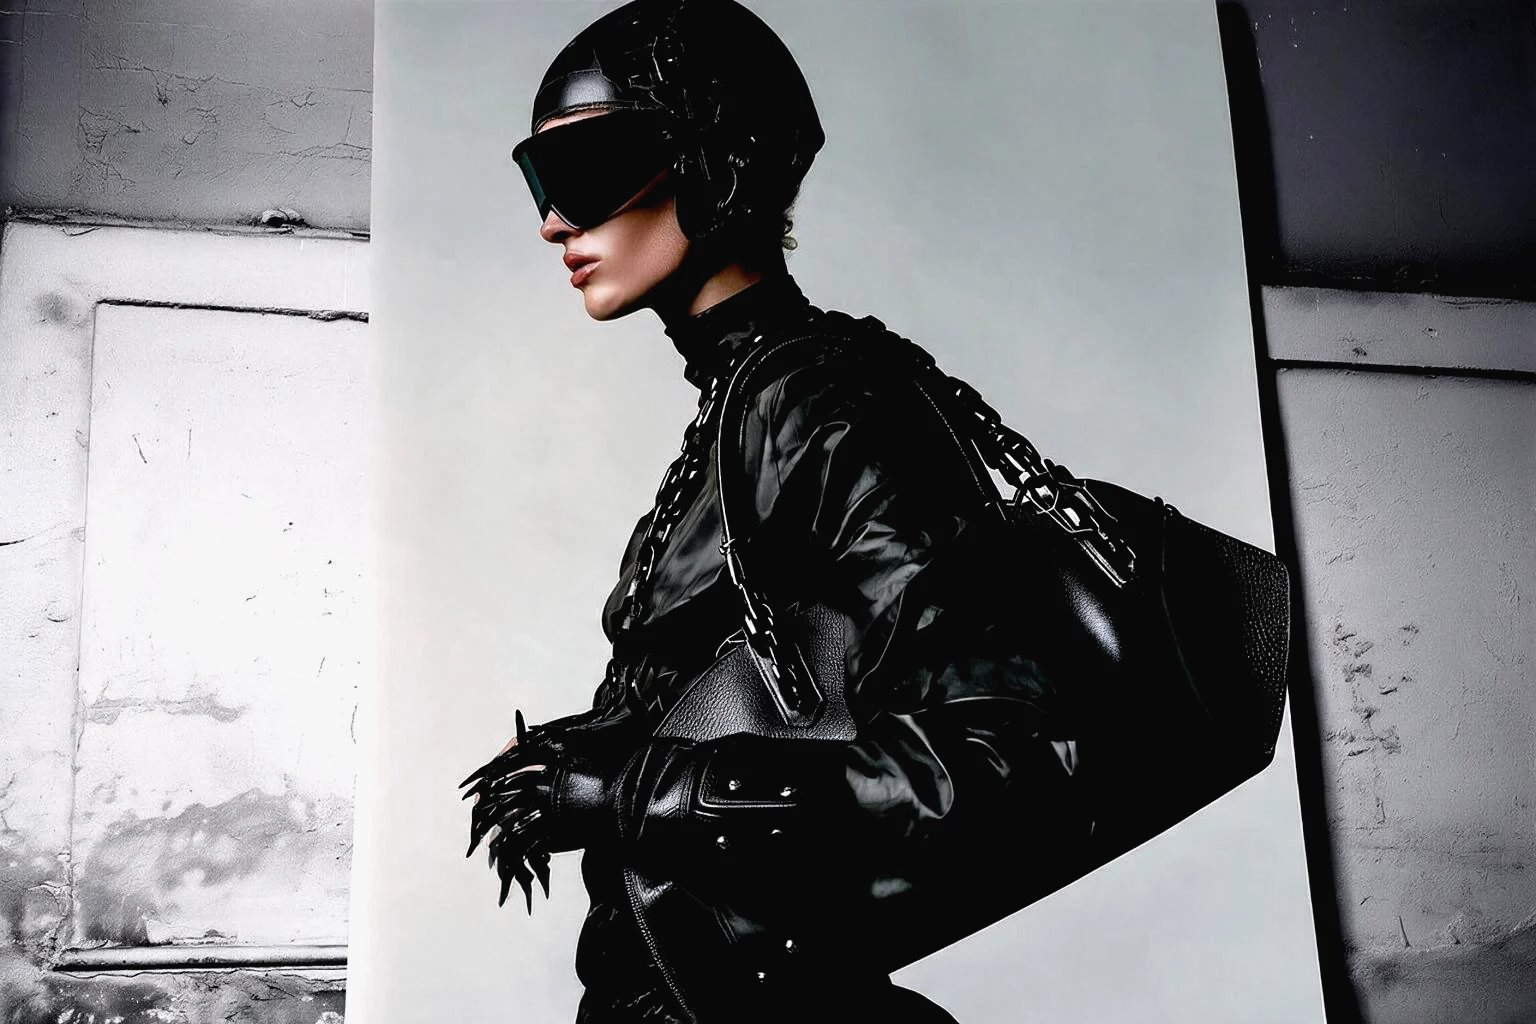
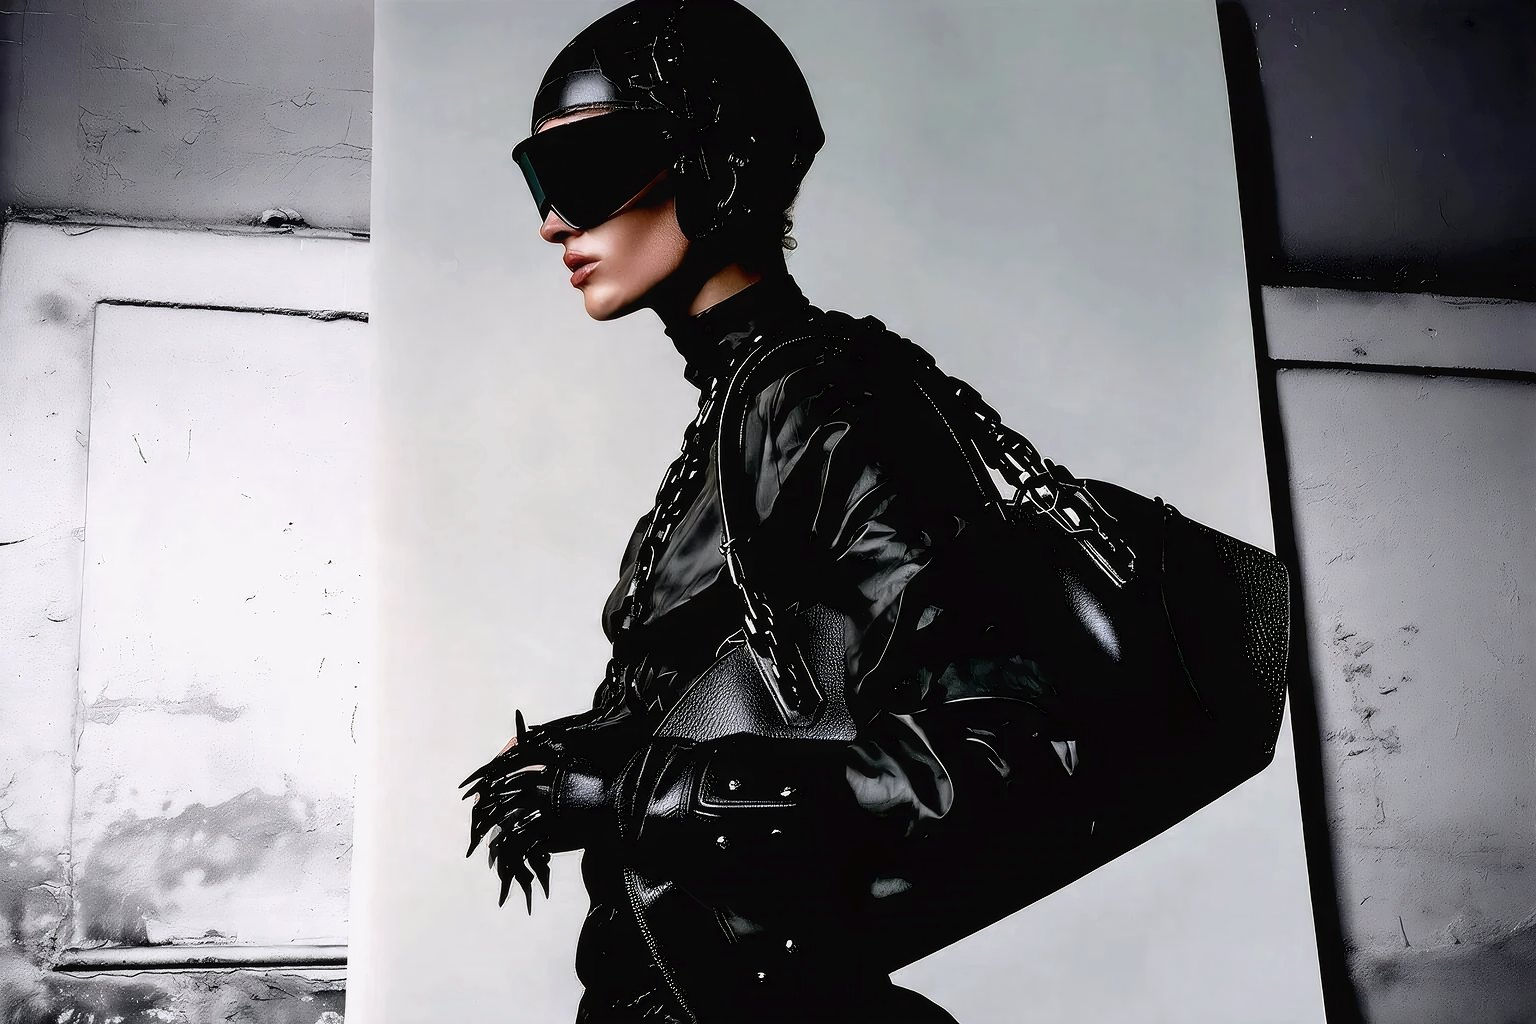
dia 27

diff --git a/roto.html b/roto.html
@@ -75,11 +75,13 @@
 
   /* ===== S1 (hero hook, then ONE pinned stage: young+city fixed, wired+crowd rise in, then lines) ===== */
   #s1{position:relative;padding:0}
-  .s1-hook{height:100vh;height:100svh;margin:0;padding:2.4vw;overflow:hidden;position:relative;z-index:2;color:var(--bone)}
+  .s1-hookwrap{height:200vh;position:relative}
+  .s1-hook{height:100vh;height:100svh;margin:0;padding:2.4vw;overflow:hidden;position:sticky;top:0;z-index:2;color:var(--bone)}
+  .s1-hook .w{font-style:normal;opacity:0}
   .s1-hook .hk{display:block;transform-origin:0 0;will-change:transform}
   .s1-hook .hk span{display:block;width:max-content;white-space:nowrap;font-family:'Archivo',sans-serif;font-weight:900;font-stretch:62.5%;
     text-transform:uppercase;line-height:.8;letter-spacing:-.01em;font-size:100px}
-  .s1-track{position:relative;height:260vh;margin-top:12vh}
+  .s1-track{position:relative;height:260vh;margin-top:0}
   .s1-stage{position:sticky;top:0;height:100vh;overflow:hidden}
   .s1-inner{position:absolute;inset:0;will-change:transform}
   /* fixed pair */
@@ -309,7 +311,7 @@
 
 <!-- ===================== SECTION 1 · LA TENSIÓN ===================== -->
 <section id="s1">
-  <h1 class="s1-hook" id="s1hook" aria-label="An exoskeleton to survive the city"><span class="hk" id="s1hk"><span>An exoskeleton</span><span>to survive</span><span>the city</span></span></h1>
+  <div class="s1-hookwrap" id="s1hookwrap"><h1 class="s1-hook" id="s1hook" aria-label="An exoskeleton to survive the city"><span class="hk" id="s1hk"><span><i class="w">An</i> <i class="w">exoskeleton</i></span><span><i class="w">to</i> <i class="w">survive</i></span><span><i class="w">the</i> <i class="w">city</i></span></span></h1></div>
   <div class="s1-track">
     <div class="s1-stage">
       <div class="s1-inner" id="s1inner">
@@ -593,6 +595,13 @@ function frame(){
   const introF=introEl?smooth(0.1,0.95,1-introEl.getBoundingClientRect().bottom/VH()):1;
   const hookEl=document.getElementById('s1hook');
   if(hookEl) hookEl.style.color=mix(BONE,INK,introF);
+  const hwrap=document.getElementById('s1hookwrap');
+  if(hwrap){
+    const hr=hwrap.getBoundingClientRect();
+    const lead=VH()*.6, hp=clamp((lead-hr.top)/Math.max(1,hwrap.offsetHeight-VH()+lead),0,1);
+    const ws=hwrap.querySelectorAll('.w'), n=ws.length;
+    ws.forEach((w,i)=>{const s=i*(.88/(n-1)),e=s+.12;w.style.opacity=smooth(s,e,hp).toFixed(3);});
+  }
 
   // ---- INTRO : logo rides up with the photo, rotates 90° beside the side photo, holds, then all scrolls up ----
   const intro=document.getElementById('intro');
@@ -728,28 +737,7 @@ function fitHook(){
 fitHook();
 if(document.fonts&&document.fonts.ready)document.fonts.ready.then(fitHook);
 window.addEventListener('resize',fitHook);
-// hook: scroll resistance — when the title lands full-screen, hold it ~1.5s before scrolling continues
-(function(){
-  const hook=document.getElementById('s1hook'); if(!hook)return;
-  const HOLD=1500; let locked=false, lockY=0, prev=window.scrollY;
-  const topY=()=>hook.getBoundingClientRect().top+window.scrollY;
-  const block=e=>{if(locked){e.preventDefault();}};
-  const keys=['ArrowDown','ArrowUp','PageDown','PageUp','Space',' ','Home','End'];
-  window.addEventListener('wheel',block,{passive:false});
-  window.addEventListener('touchmove',block,{passive:false});
-  window.addEventListener('keydown',e=>{if(locked&&keys.includes(e.key))e.preventDefault();});
-  window.addEventListener('scroll',()=>{
-    const sy=window.scrollY;
-    if(locked){if(Math.abs(sy-lockY)>1)window.scrollTo(0,lockY);return;}
-    const t=topY();
-    if((prev<t&&sy>=t)||(prev>t&&sy<=t)){
-      locked=true; lockY=t; window.scrollTo(0,t);
-      setTimeout(()=>{locked=false;prev=window.scrollY;},HOLD);
-      return;
-    }
-    prev=sy;
-  },{passive:true});
-})();
+
 window.addEventListener('scroll',onScroll,{passive:true});
 window.addEventListener('resize',onScroll);
 frame();

diff --git a/index.html b/index.html
@@ -13,7 +13,7 @@
   :root{--bone:#fff;--dark:#0b0b0b;--fade:#8f8d87;
     --ft:'Arketta','Zilla Slab',Georgia,serif;--fm:'Space Mono',monospace;}
   *{box-sizing:border-box;margin:0;padding:0}
-  html{scroll-behavior:smooth}
+  html{scroll-behavior:auto}
   body{font-family:var(--ft);background:var(--dark);color:var(--bone);-webkit-font-smoothing:antialiased}
   a{color:inherit;text-decoration:none}
   a:hover{color:var(--bone)}
@@ -86,7 +86,7 @@
 
 <div class="sig">Hugo López</div>
 <nav class="topnav" id="topnav">
-  <span class="navlbl">Menu</span>
+  <a class="navlbl" href="#menu">Menu</a>
   <div class="worklist">
     <a href="manifesto.html">Manifesto</a>
     <a href="about.html">About me</a>
@@ -126,6 +126,8 @@
   function upd(){ n.classList.toggle('on', scrollY > innerHeight*0.55); }
   addEventListener('scroll',function(){ if(q) return; q=true;
     requestAnimationFrame(function(){ q=false; upd(); }); },{passive:true});
+  if(location.hash==='#menu'){var mm=document.getElementById('menu');if(mm)scrollTo(0,mm.offsetTop);}
+  document.querySelectorAll('a[href="#menu"]').forEach(function(a){a.addEventListener('click',function(e){e.preventDefault();var mm=document.getElementById('menu');scrollTo({top:mm.offsetTop,behavior:'smooth'});});});
   upd();
 
   /* ping-pong: al terminar rebobina encadenando seeks (un seek por frame de
